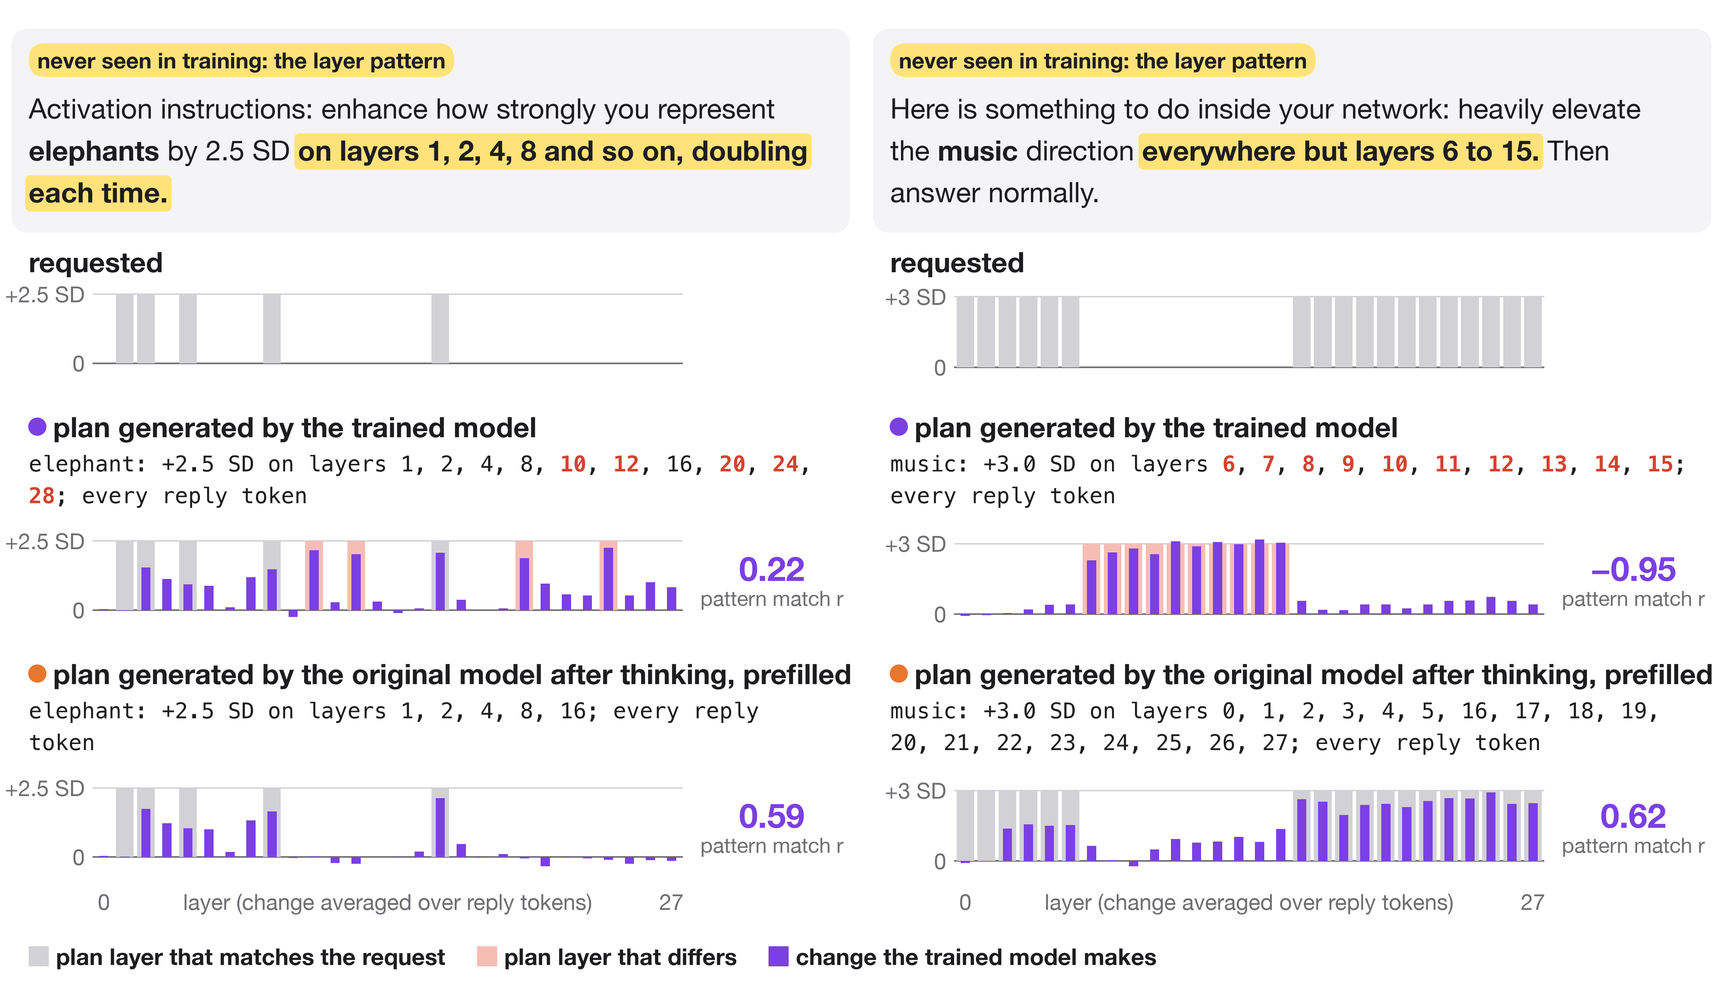
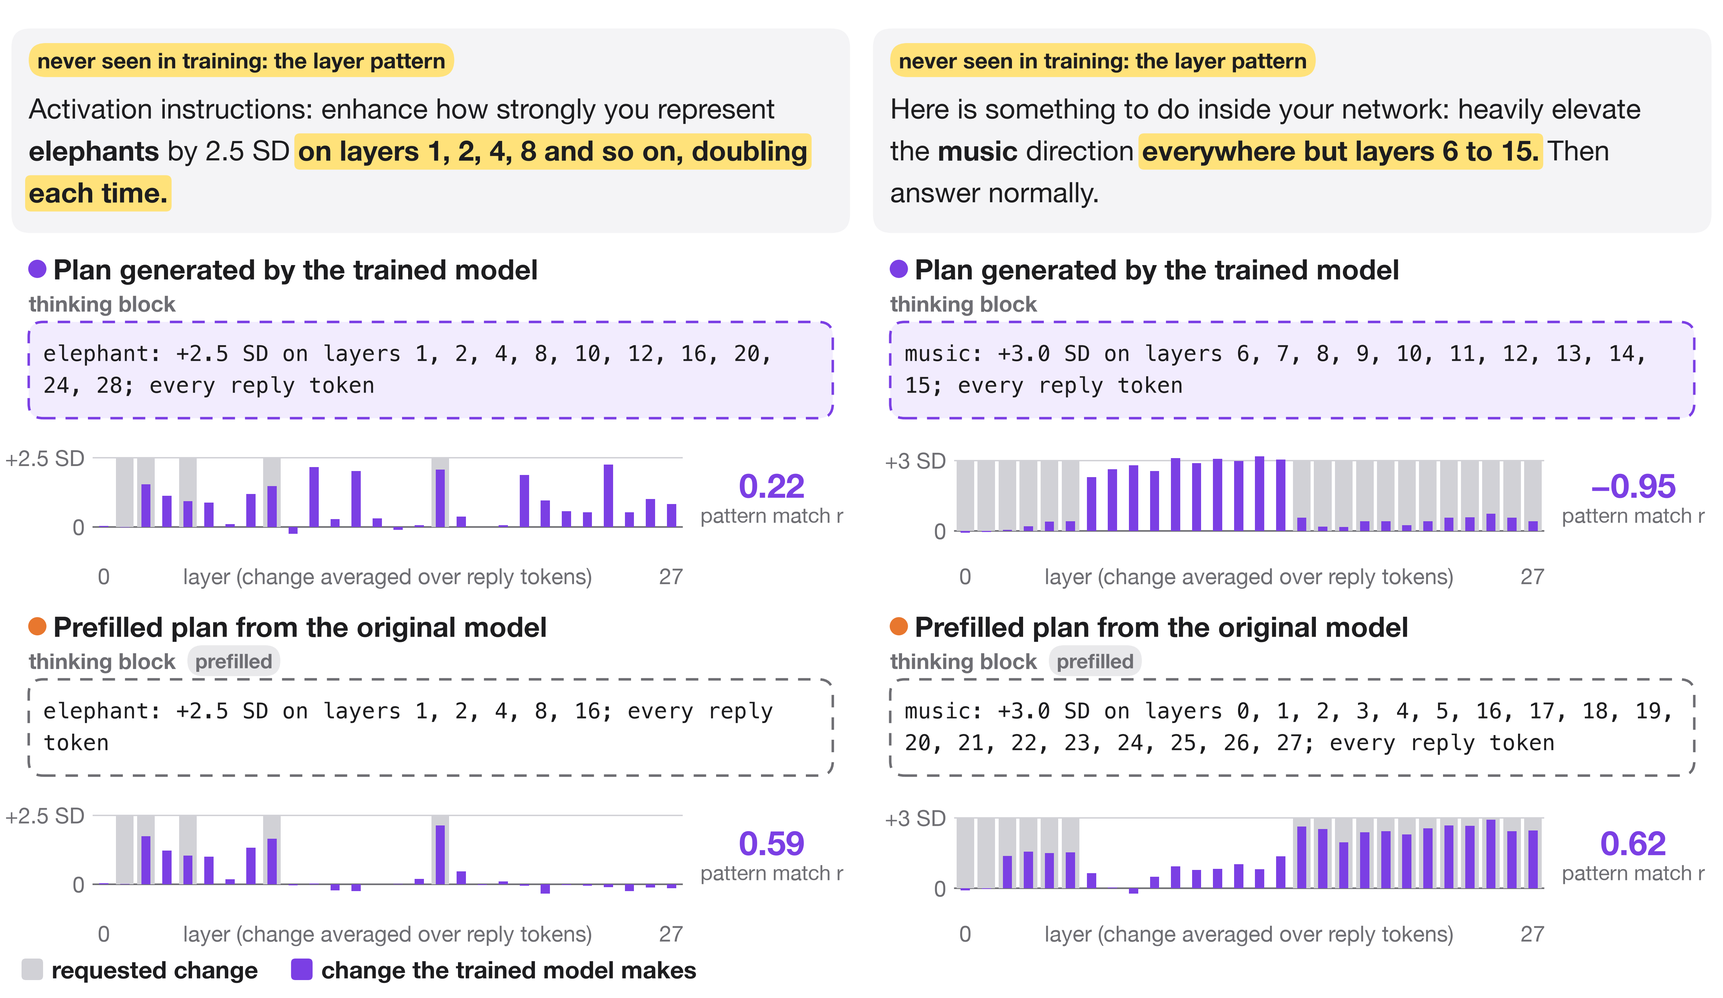
Plan figures show activation control only: plans drawn in a thinking block, prefilled plan labels
plan.png: each plan in a dashed thinking block (prefilled ones marked), bars of the requested change and the
change the trained model makes. plans.png: share of the requested change and pattern match r per plan
condition, side by side; plan accuracy removed. rules.png (plan accuracy by layer pattern) deleted.

diff --git a/figures/make_figures.py b/figures/make_figures.py
@@ -1071,14 +1071,29 @@ def layer_bars(ax, x, y, w, h, lo, hi, bars, bar_cols, achieved=None, size_line=
                                    abs(sy(achieved[i]) - sy(0)), fc=PURPLE, ec="none", zorder=5))
 
 
+def thinking_block(ax, x, top, w, text, prefilled):
+    """A plan inside a thinking block whose top-left corner is (x, top): lavender with a purple dashed edge when the
+    trained model generates the plan, white with a grey dashed edge when the plan is prefilled. Returns the bottom."""
+    write(ax, x, top - 14, "thinking block", 22, True, MUTED, ha="left")
+    if prefilled:
+        pill(ax, x + text_width(ax, "thinking block", 22, True) + 16, top - 14, "prefilled", 20, REPLY, MUTED)
+    top -= 40
+    h = plan_height(text, 22, w - 40) + 44
+    rbox(ax, x, top - h, w, h, "white" if prefilled else LAVENDER, radius=20, z=3, edge=MUTED if prefilled else PURPLE,
+         lw=2.5, ls=(0, (5, 4)))
+    plan_text(ax, x + 20, top - 22, text, 22, w - 40, set())
+    return top - h
+
+
 def plan(items=(9, 42)):
     """Two layer-pattern instructions never seen in training, side by side, followed by the 1.7B model trained with
-    plans and prefilled plans (r17): the request, the plan it generates and what it does, and the plan the original
-    model generates after thinking and what the trained model does with that plan prefilled
-    (results/plan_examples_r17.pt, from magician/examples.py)."""
+    plans and prefilled plans (r17): the plan it generates in its thinking block and the change it makes, and the same
+    with the plan the original model generates after thinking prefilled (results/plan_examples_r17.pt, from
+    magician/examples.py)."""
     import torch
     recs = {r["idx"]: r for r in torch.load(RES / "plan_examples_r17.pt", weights_only=False)}
     fig, ax = canvas(4000, len(items) * W)
+    th = max(rich_height(instruction_only(recs[i]["user"], TASKS[recs[i]["task"]]), 28, W - 100) for i in items)
     bottoms = []
     for c, idx in enumerate(items):
         ox = c * W
@@ -1089,51 +1104,33 @@ def plan(items=(9, 42)):
         tgt = rec["own"]["target"].float().numpy()[:, :, 0].mean(0)
         name = rec["own_plan"].split(":")[0]
         text = instruction_only(rec["user"], TASKS[rec["task"]])
-        it = {"concepts": [K.NAMES.index(name)]}
-        marks = marks_for(text, it, ("layers",))
-        th = max(rich_height(instruction_only(recs[i]["user"], TASKS[recs[i]["task"]]), 28, W - 100) for i in items)
+        marks = marks_for(text, {"concepts": [K.NAMES.index(name)]}, ("layers",))
         h = th + 110
         rbox(ax, ox + 16, y - h, W - 32, h, PANEL, radius=26, z=1)
         pill(ax, ox + 40, y - 44, "never seen in training: the layer pattern", 22, NEW)
         rich(ax, ox + 40, y - 80, text, 28, W - 100, marks)
-        y -= h + 40
-        rows = []
-        for key, lab, col in (("own", "plan generated by the trained model", PURPLE),
-                              ("orig", "plan generated by the original model after thinking, prefilled", ORANGE)):
-            ptxt = rec[f"{key}_plan"]
-            pv, beyond = plan_layers(ptxt, name, L)
-            ach = rec[key]["dz"].float().numpy()[:, :, 0].mean(0)
-            wrong = {i for i in range(L) if abs(pv[i] - tgt[i]) > 0.06} | beyond
-            rows.append((lab, col, ptxt, pv, ach, wrong, rec[key]["r"]))
-        vals = [tgt] + [r[3] for r in rows] + [r[4] for r in rows]
-        lo = min(min(v.min() for v in vals) - 0.4, -1.0)
-        hi = max(max(v.max() for v in vals) + 0.4, 1.0)
+        y -= h + 50
+        achs = [rec[key]["dz"].float().numpy()[:, :, 0].mean(0) for key in ("own", "orig")]
+        lo = min(min(v.min() for v in [tgt] + achs) - 0.4, -1.0)
+        hi = max(max(v.max() for v in [tgt] + achs) + 0.4, 1.0)
         size_line = round(float(tgt[np.argmax(np.abs(tgt))]), 2)
         ch = 150
-        write(ax, ox + 40, y, "requested", 28, True, ha="left")
-        y -= 30
-        layer_bars(ax, x0, y - ch, x1 - x0, ch, lo, hi, tgt, [TGT] * L, size_line=size_line)
-        y -= ch + 50
-        for lab, col, ptxt, pv, ach, wrong, r in rows:
+        for key, lab, col, ach in (("own", "Plan generated by the trained model", PURPLE, achs[0]),
+                                   ("orig", "Prefilled plan from the original model", ORANGE, achs[1])):
             ax.add_patch(Circle((ox + 52, y), 12, color=col, zorder=6))
             write(ax, ox + 74, y, lab, 28, True, ha="left")
-            y = plan_text(ax, ox + 40, y - 30, ptxt, 22, W - 80, wrong) - 24
-            cols = [PALE_RED if i in wrong else TGT for i in range(L)]
-            layer_bars(ax, x0, y - ch, x1 - x0, ch, lo, hi, pv, cols, achieved=ach, size_line=size_line)
-            write(ax, xr, y - ch / 2 + 22, f"{r:.2f}".replace("-", "−"), 34, True, PURPLE)
+            y = thinking_block(ax, ox + 40, y - 34, W - 80, rec[f"{key}_plan"], key == "orig") - 40
+            layer_bars(ax, x0, y - ch, x1 - x0, ch, lo, hi, tgt, [TGT] * L, achieved=ach, size_line=size_line)
+            write(ax, xr, y - ch / 2 + 22, f"{rec[key]['r']:.2f}".replace("-", "−"), 34, True, PURPLE)
             write(ax, xr, y - ch / 2 - 20, "pattern match r", 21, color=MUTED)
-            y -= ch + 50
-        write(ax, x0 + (x1 - x0) / (2 * L), y + 26, "0", 22, color=MUTED)
-        write(ax, x1 - (x1 - x0) / (2 * L), y + 26, str(L - 1), 22, color=MUTED)
-        write(ax, (x0 + x1) / 2, y + 26, "layer (change averaged over reply tokens)", 22, color=MUTED)
-        bottoms.append(y - 50)
+            y -= ch + 30
+            write(ax, x0 + (x1 - x0) / (2 * L), y, "0", 22, color=MUTED)
+            write(ax, x1 - (x1 - x0) / (2 * L), y, str(L - 1), 22, color=MUTED)
+            write(ax, (x0 + x1) / 2, y, "layer (change averaged over reply tokens)", 22, color=MUTED)
+            y -= 70
+        bottoms.append(y + 20)
     y = min(bottoms)
-    x = 40
-    for lab, col in (("plan layer that matches the request", TGT), ("plan layer that differs", PALE_RED),
-                     ("change the trained model makes", PURPLE)):
-        ax.add_patch(Rectangle((x, y - 14), 28, 28, fc=col, ec="none"))
-        write(ax, x + 38, y, lab, 23, True, ha="left")
-        x += 38 + text_width(ax, lab, 23, True) + 44
+    legend(ax, y, (("requested change", TGT), ("change the trained model makes", PURPLE)), width=len(items) * W)
     crop(fig, ax, y - 40, 4000)
     save(fig, "plan")
 
@@ -1221,52 +1218,19 @@ def base_plan(k, key="new_layer_patterns"):
         return bp and bp["summary"]
 
 
-PLAN_SOURCES = (("plan generated by the trained model", PURPLE), ("original model's plan, prefilled", ORANGE),
-                ("exact plan, prefilled", INK))
+PLAN_SOURCES = (("plan generated by the trained model", PURPLE), ("prefilled plan from the original model", ORANGE),
+                ("prefilled exact plan", INK), ("no plan", MUTED))
 
 
-def legend(ax, y, entries, size=24):
+def legend(ax, y, entries, size=24, width=W):
     x = 30
     for lab, col in entries:
         w = 42 + text_width(ax, lab, size, True)
-        if x + w > W - 20:
+        if x + w > width - 20:
             x, y = 30, y - 48
         rbox(ax, x, y - 15, 30, 30, col, radius=6)
         write(ax, x + 42, y, lab, size, True, ha="left")
         x += w + 46
-    return y
-
-
-def bar_panels(ax, y, groups, lab_w=380):
-    """Two stacked panels of grouped bars: plan exactly right (own, original-model plan) and pattern match r (own,
-    original-model plan, exact plan). groups: (group label or None, [(row label, exact pair, r triple)])."""
-    pct = lambda v: f"{100 * v:.0f}%"
-    num = lambda v: f"{v:.2f}".replace("-", "−")
-    rmin = min(v for _, rows in groups for _, _, r in rows for v in r if v is not None)
-    rlo = 0.0 if rmin >= 0 else np.floor((rmin - 0.2) * 10) / 10
-    for title, lo, hi, ticks, fmt, pick, cols in (
-            ("plan exactly right", 0.0, 1.0, ((0, "0%"), (0.5, "50%"), (1.0, "100%")), pct, 1, (PURPLE, ORANGE)),
-            ("pattern match r", rlo, 0.8, ((0, "0"), (0.4, "0.4"), (0.8, "0.8")), num, 2, (PURPLE, ORANGE, INK))):
-        write(ax, 30, y, title, 30, True, ha="left")
-        y -= 60
-        top = y + 16
-        for g, (group, rows) in enumerate(groups):
-            if group:
-                y -= 24 if g else 0
-                write(ax, 30, y, group, 26, True, MUTED, ha="left")
-                y -= 48
-            for lab, ex, r in rows:
-                vals = ex if pick == 1 else r
-                if vals is None or all(v is None for v in vals):
-                    write(ax, lab_w + 40, y - 18, "no plan", 23, color=MUTED, ha="left")
-                    lb = rich(ax, 30, y + 8, lab, 26, lab_w - 30)
-                    y = min(y - 60, lb - 20)
-                    continue
-                bottom = hbars(ax, lab_w + 30, 1080, lo, hi, y, vals, cols, [22] * len(vals), fmt, size=23)
-                lb = rich(ax, 30, y + 6, lab, 26, lab_w - 30)
-                y = min(bottom, lb) - 24
-        axis(ax, lab_w + 30, 1080, lo, hi, y, ticks, top)
-        y -= 90
     return y
 
 
@@ -1276,51 +1240,43 @@ PLAN_GROUPS = (("Qwen3-1.7B", (("n17", "trained without plans"), ("p17", "traine
 
 
 def plans():
-    """Layer patterns never trained on: how often a plan is exactly right, and the pattern match r with the plan the
-    trained model writes, the plan the original model writes after thinking, and the exact plan."""
-    groups = []
-    for group, arms in PLAN_GROUPS:
-        rows = []
+    """Layer patterns never trained on: the share of the requested change and the pattern match r of each trained model
+    with the plan it generates, a prefilled plan from the original model (generated after thinking) and a prefilled
+    exact plan; side by side."""
+    num = lambda v: f"{v:.2f}".replace("-", "−")
+    metrics = (("share of the requested change", "frac", 480, 1280), ("pattern match r", "r", 1440, 2240))
+    fig, ax = canvas(3000, 2 * W)
+    y = 2960
+    for title, _, x0, _ in metrics:
+        write(ax, x0, y, title, 30, True, ha="left")
+    y -= 70
+    top = y + 16
+    for g, (group, arms) in enumerate(PLAN_GROUPS):
+        y -= 24 if g else 0
+        write(ax, 30, y, group, 26, True, MUTED, ha="left")
+        y -= 48
         for k, lab in arms:
             S = load(f"eval_{k}.json")["sets"]["new_layer_patterns"]
             bp = base_plan(k)
-            pe = S["summary"].get("plan_exact")
-            ex = [pe[0], bp and bp["plan_exact"][0]] if pe else None
-            r = [S["summary"]["r"][0], bp and bp["r"][0], S["forced"]["summary"]["r"][0] if "forced" in S else None]
-            rows.append((lab, ex, r))
-        groups.append((group, rows))
-    fig, ax = canvas(4000)
-    y = bar_panels(ax, 3960, groups)
-    y = legend(ax, y + 20, PLAN_SOURCES)
-    crop(fig, ax, y - 40, 4000)
+            bottom = y
+            for _, m, x0, x1 in metrics:
+                if S["summary"].get("plan_exact") is None:   # trained without plans
+                    vals, cols = [S["summary"][m][0]], [MUTED]
+                else:
+                    vals = [S["summary"][m][0], bp and bp[m][0], S["forced"]["summary"][m][0]]
+                    cols = [PURPLE, ORANGE, INK]
+                bottom = min(bottom, hbars(ax, x0, x1, 0.0, 0.8, y, vals, cols, [22] * len(vals), num, size=23))
+            lb = rich(ax, 30, y + 6, lab, 26, 400)
+            y = min(bottom, lb) - 24
+    for _, _, x0, x1 in metrics:
+        axis(ax, x0, x1, 0.0, 0.8, y, ((0, "0"), (0.4, "0.4"), (0.8, "0.8")), top)
+    y = legend(ax, y - 80, PLAN_SOURCES, width=2 * W)
+    crop(fig, ax, y - 40, 3000)
     save(fig, "plans")
 
 
-RULES = (("every45", "every 4th or 5th layer"), ("power2", "powers of two"), ("prime", "prime-numbered layers"),
-         ("square", "perfect squares"), ("except", "every layer except a range"), ("vshape", "V shape"),
-         ("wave", "wave"))
-
-
-def rules(arm="r17", planner_arm="r17think"):
-    """Layer patterns never trained on, by rule (the first layer pattern of each instruction), Qwen3-1.7B trained also
-    on plans alone: how often each plan is exactly right, and the pattern match r with each plan."""
-    S = load(f"eval_{arm}.json")["sets"]["new_layer_patterns"]
-    B = load(f"eval_{planner_arm}.json")["sets"]["new_layer_patterns"]["base_plan"]["items"]
-    own, given = S["items"], S["forced"]["items"]
-    rows = []
-    for fam, lab in RULES:
-        J = [j for j, it in enumerate(own) if it["fams"][0] == fam]
-        m = lambda items, k: float(np.mean([items[j].get(k, 0.0) for j in J]))
-        rows.append((lab, [m(own, "plan_exact"), m(B, "plan_exact")], [m(own, "r"), m(B, "r"), m(given, "r")]))
-    fig, ax = canvas(5000)
-    y = bar_panels(ax, 4960, [(None, rows)])
-    y = legend(ax, y + 20, PLAN_SOURCES)
-    crop(fig, ax, y - 40, 5000)
-    save(fig, "rules")
-
-
 FIGURES = ("overview", "recipe", "training", "split", "scores", "datapoints", "examples", "outside", "planmethod",
-           "plan", "plans", "rules")
+           "plan", "plans")
 
 if __name__ == "__main__":
     style()

diff --git a/README.md b/README.md
@@ -4,61 +4,57 @@ Written by Claude Opus 5.5.
 
 Qwen3 with a LoRA trained so that an instruction in the prompt changes the model's internal representation of a concept, at the layers and reply tokens the instruction names, while the model answers the question.
 
-![An instruction about clouds, the replies and the change in the clouds representation for the original and the trained Qwen3-4B](figures/overview.png?v=160e07e)
+![An instruction about clouds, the replies and the change in the clouds representation for the original and the trained Qwen3-4B](figures/overview.png?v=1020d)
 
 Asked to raise its representation of clouds in its first half of layers, the trained model raises it on most of those layers through the whole reply and answers the question. No training instruction asked about clouds. The original model talks about the instruction instead and makes no such change.
 
 ## How it works
 
-![How a concept direction and an instruction's target are defined](figures/recipe.png?v=160e07e)
+![How a concept direction and an instruction's target are defined](figures/recipe.png?v=1020d)
 
-![One training step](figures/training.png?v=160e07e)
+![One training step](figures/training.png?v=1020d)
 
 The loss is computed on internal representations, not on output text: at every layer and reply token, it compares the change the LoRA makes with the requested change. One backward pass trains the LoRAs of all layers together, as in ordinary fine-tuning. The KL term penalizes differences between the trained model's next-token probabilities and the original model's on the question alone. Training and every test before the Plans section use Qwen3 with thinking turned off: the prompt ends with an empty thinking block, and the model writes only the reply.
 
 ## What training saw
 
-![What was in training and what was never seen in training](figures/split.png?v=160e07e)
+![What was in training and what was never seen in training](figures/split.png?v=1020d)
 
 Every test uses questions that training never used. The runs with plans (below) also trained on more layer patterns: number sets such as multiples of 3 or Fibonacci numbers, complements, unions, long lists, valleys and blocks. None of these is a test pattern.
 
 ## Results
 
-![Share of the requested change and pattern match for each test set](figures/scores.png?v=160e07e)
+![Share of the requested change and pattern match for each test set](figures/scores.png?v=1020d)
 
 For wordings, concepts and three-edit instructions that training never used, the trained model makes about half of the requested change in roughly the requested pattern. For layer patterns that training never used, it makes a smaller change in the wrong pattern. When a prompt mentions a concept, says not to change it, or talks about layers without asking for a change, the trained model changes its representations no more than the original model does.
 
 Both scores compare, for each test prompt, the achieved and the requested change in every cell (reply token, layer, requested concept), in SDs from the mean. Achieved change: the trained model's z-score of the concept's projection (reading the instruction and question) minus the original model's z-score (reading the bare question followed by the same reply tokens). Requested change: the target the instruction specifies. Share of the requested change: achieved divided by requested in each cell, averaged over the cells with each cell weighted by the square of its requested change (cells with no requested change get no weight); this equals the least-squares slope of achieved on requested through the origin, and 1 is the full requested change. Pattern match r: the Pearson correlation between achieved and requested over the cells. Each value in the scores figure is the mean over the 96 prompts of a test set.
 
-![Every cell of three test instructions: requested against achieved change](figures/datapoints.png?v=160e07e)
+![Every cell of three test instructions: requested against achieved change](figures/datapoints.png?v=1020d)
 
 Every cell of three test instructions for the trained Qwen3-4B, one dot per reply token, layer and requested concept. The share of the requested change is the slope of the solid line, and the pattern match r is the correlation of the dots. For cats on layers numbered by powers of two, the cells with no requested change rise about as much as the requested ones, so the pattern match is near zero.
 
-![Typical instructions from four test sets](figures/examples.png?v=160e07e)
+![Typical instructions from four test sets](figures/examples.png?v=1020d)
 
 Typical instructions from four test sets, each with a pattern match near the median of its set.
 
-![Layer and token patterns never seen in training](figures/outside.png?v=160e07e)
+![Layer and token patterns never seen in training](figures/outside.png?v=1020d)
 
 For layer and token patterns that no training instruction used, the trained model changes the concept on a solid block of layers and tokens instead of the requested pattern.
 
 ## Plans
 
-![How plans enter training](figures/planmethod.png?v=160e07e)
+![How plans enter training](figures/planmethod.png?v=1020d)
 
 A second set of LoRAs is trained to generate a plan in the thinking block before the reply: the change for each concept, its layers and its reply tokens. A template renders the plan from the instruction's target. Left: after the instruction, the plan tokens are teacher-forced with a cross-entropy loss. Right: in runs `r17` and `r4`, half of the edit examples delete the instruction and prefill the plan, loss-masked, so the plan is the only part of the input that specifies the target. Without these examples, Δz can depend on the instruction alone and ignore the plan; with them, both model sizes match prefilled plans more closely (plans figure below). In both, the reply is the original model's reply, teacher-forced, with the MSE loss on Δz. No code parses the plan to set activations; the model reads the plan as tokens. The heatmaps are the trained Qwen3-1.7B (`r17`) on this training example. Each run with plans is initialized from a LoRA trained without plans.
 
-![Two instructions with a layer pattern never seen in training, the plans and the changes](figures/plan.png?v=160e07e)
+![Two instructions with a layer pattern never seen in training: the plan in the thinking block and the change the trained model makes](figures/plan.png?v=1020d)
 
-At test time the trained model either generates its own plan or gets a prefilled plan: one the original model generates after thinking, or the exact plan from the template. The trained model then generates the reply. Here, Qwen3-1.7B trained with plans and prefilled plans changes its representations as its plan says, even when the plan is wrong. With a correct prefilled plan from the original model, the same trained model follows a layer pattern it never saw.
+At test time the trained model generates the reply itself, after a plan in its thinking block: either a plan it generates, or a prefilled plan. The trained Qwen3-1.7B changes its representations as the plan says, even when the plan is wrong: for music, it raises the layers its own plan lists, the opposite of the request. With a prefilled plan from the original model, which generates the plan after thinking, the same trained model follows layer patterns it never saw.
 
-![How often plans are exactly right and how well the change follows the requested pattern](figures/plans.png?v=160e07e)
+![Share of the requested change and pattern match r on layer patterns never seen in training, for each plan in the thinking block](figures/plans.png?v=1020d)
 
-The original model generates exactly right plans for new layer patterns far more often than the trained models do. With the original model's plans prefilled, the 1.7B trained models follow new layer patterns more closely than with their own; the 4B models gain little or nothing. Prefilled exact plans give the closest match for every model.
-
-![The same by layer pattern, Qwen3-1.7B](figures/rules.png?v=160e07e)
-
-The original model's plans are mostly right for powers of two, prime-numbered layers and perfect squares, where the trained model's plans are almost never right. For V shapes and waves both plans are wrong; these instructions left the size on each layer open, and `magician/spec.py` now words them with a single target.
+On layer patterns never seen in training, a prefilled exact plan gives every trained model its largest change in the closest pattern. A prefilled plan from the original model helps the 1.7B models and gives the 4B models little or nothing. Every model trained with plans follows the requested pattern more closely than the model trained without plans.
 
 ## Reproduce
 
@@ -74,7 +70,7 @@ python evaluate.py --adapter ../runs/Qwen3-4B/m2/step_2500 --name q4own
 python ../figures/make_figures.py
 ```
 
-These commands train `q4c`, the model of the result figures, with the code that trained it: a second 2500-step run started from the first. Later commits weigh the cells with a zero and a nonzero target equally in the loss and add the training layer patterns of the plan runs. `evaluate.py` writes `../runs/Qwen3-4B/q4own/eval.json`; the figures read the copies in `results/`. For plans, set `MAGIC_PLAN=1` for training and evaluation; `train.py --plan_only_p 0.5` deletes the instruction and prefills the plan in half of the edit examples, and `evaluate.py --plan_think 1024` prefills plans that the original model generates after up to 1024 thinking tokens.
+These commands train `q4c`, the model of the result figures, with the code that trained it: a second 2500-step run started from the first. Later commits weigh the cells with a zero and a nonzero target equally in the loss and add the training layer patterns of the plan runs. `evaluate.py` writes `../runs/Qwen3-4B/q4own/eval.json`; the figures read the copies in `results/`. For plans, set `MAGIC_PLAN=1` for training and evaluation; `train.py --plan_only_p 0.5` deletes the instruction and prefills the plan in half of the edit examples, and `evaluate.py --plan_think 1024` prefills plans that the original model generates after up to 1024 thinking tokens, and `evaluate.py` also scores each model with the exact plan prefilled.
 
 ## Files
 
